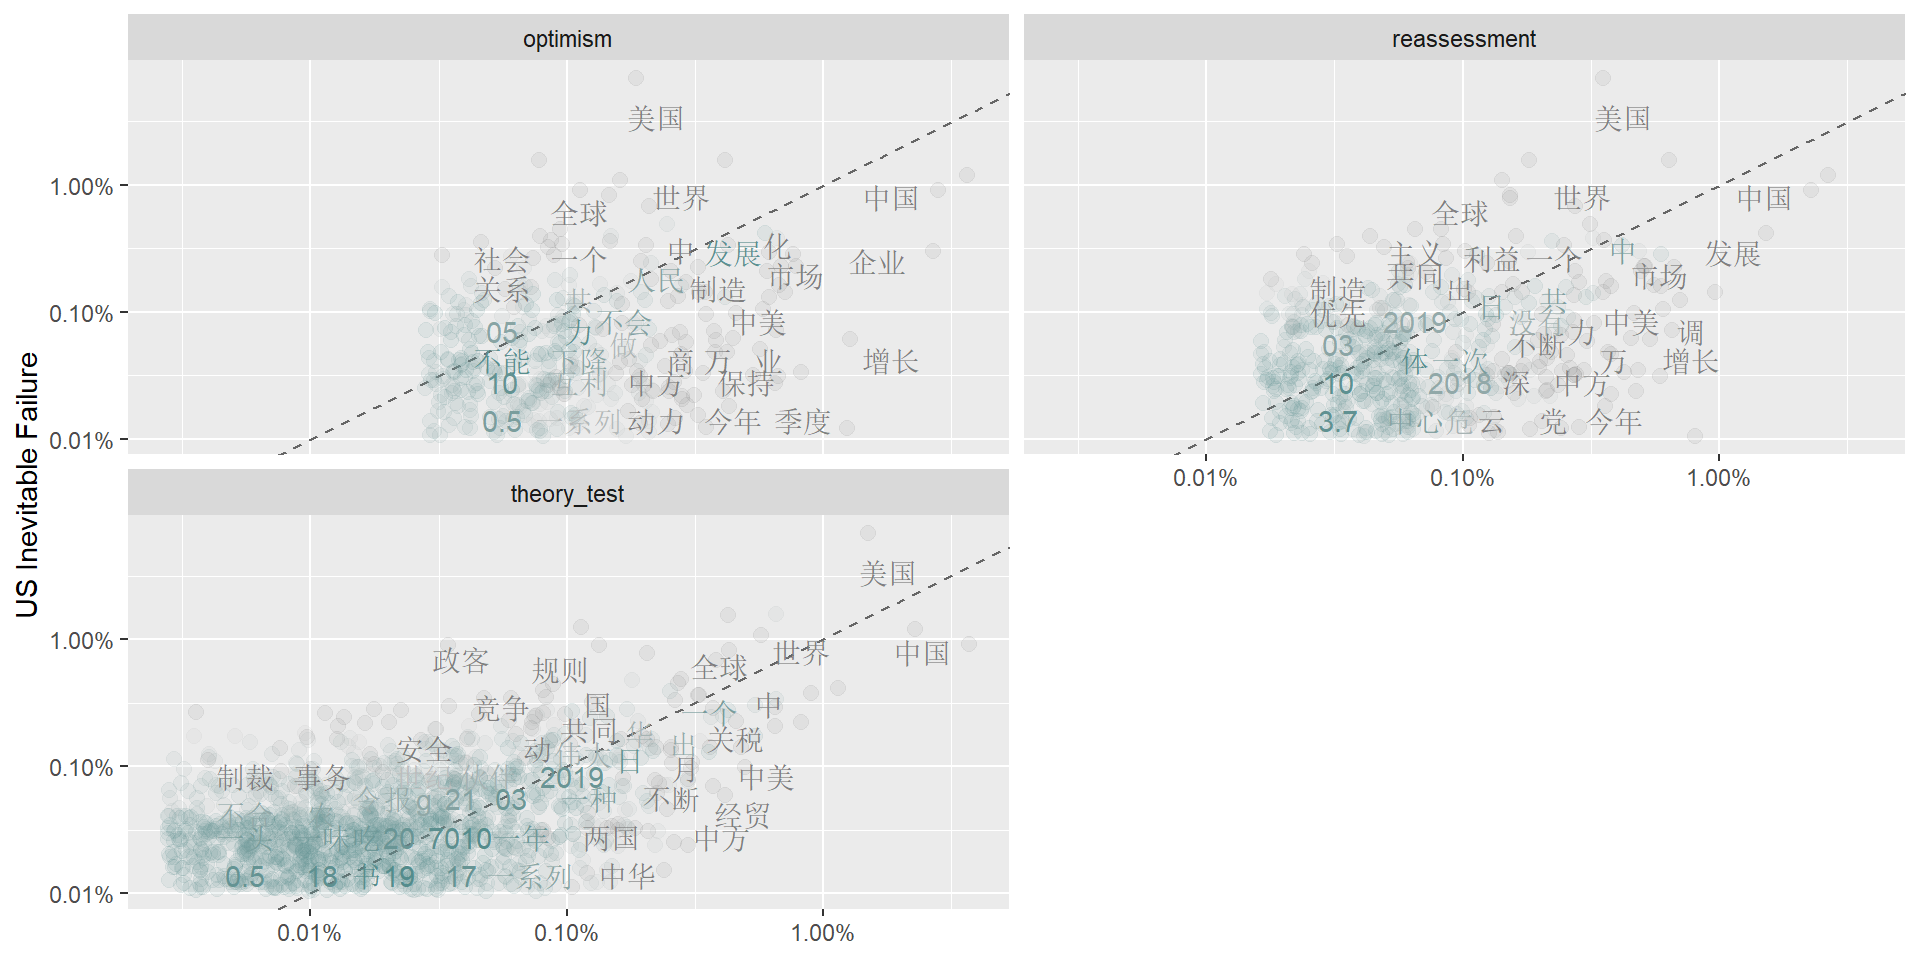
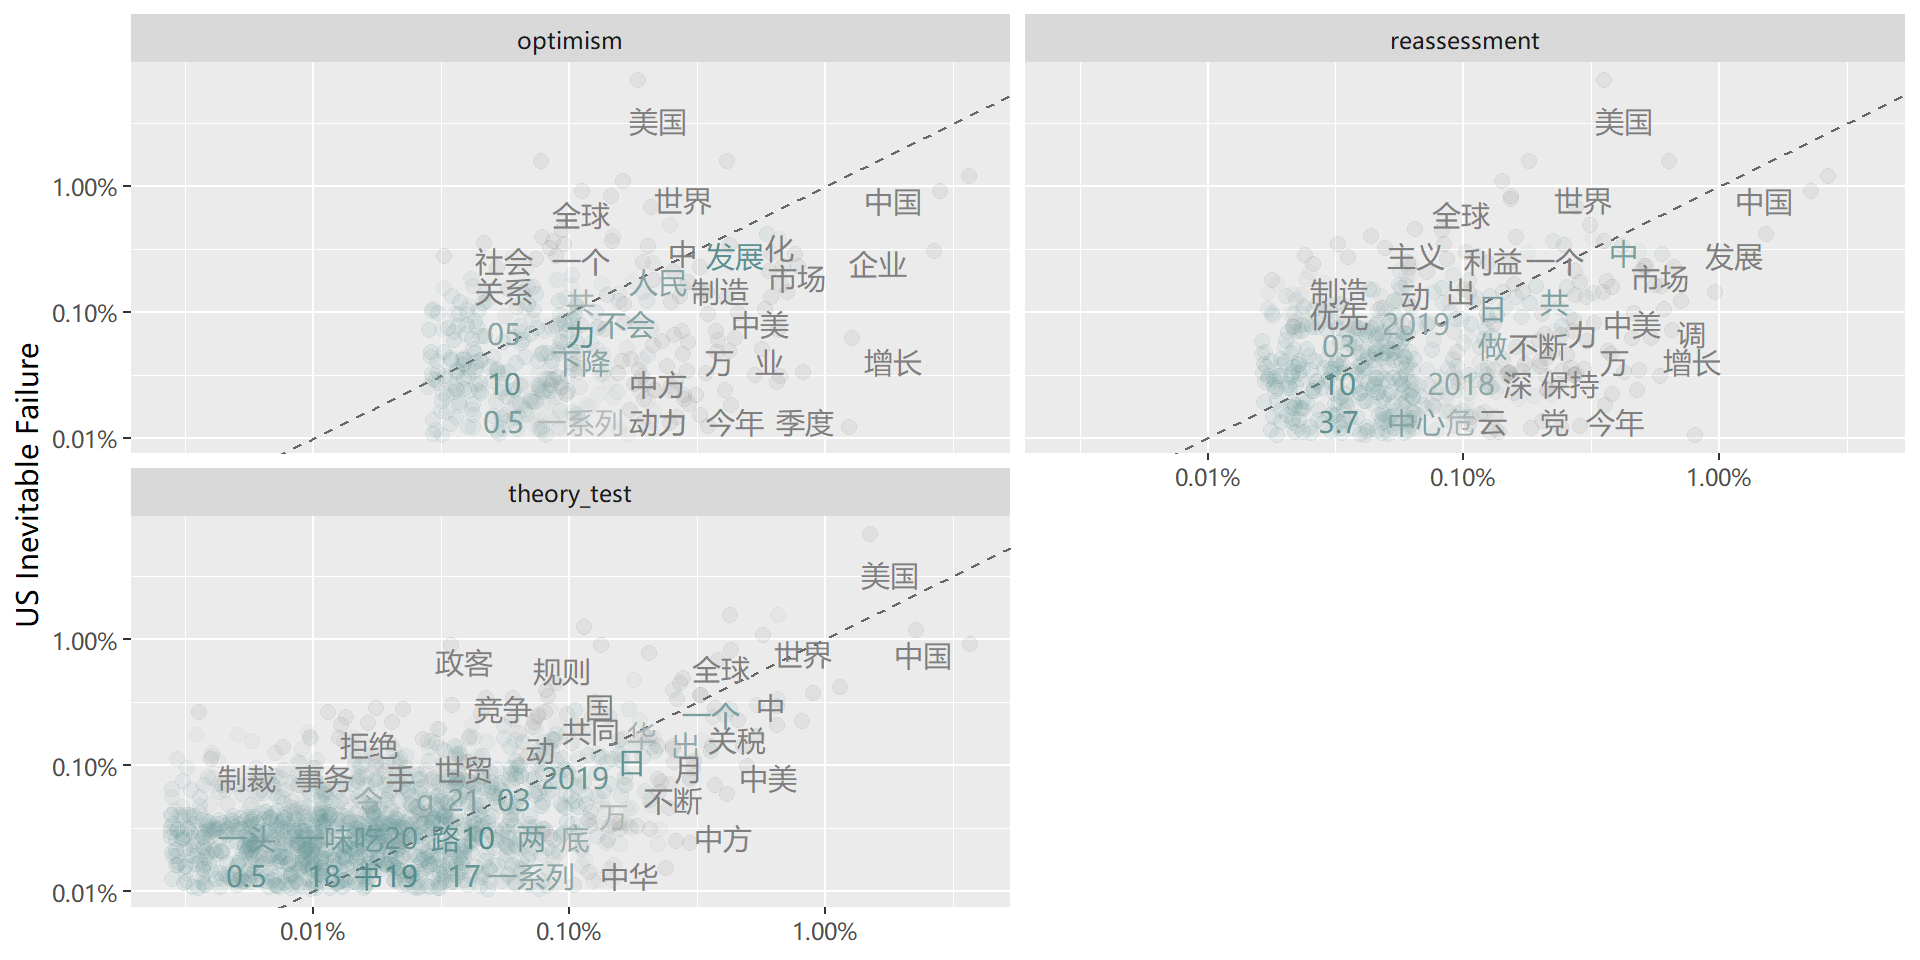
fix the font issue

diff --git a/slides/courses/camsTextAnalysis/01_theory.html b/slides/courses/camsTextAnalysis/01_theory.html
@@ -613,7 +613,7 @@ Yue Hu
 </figure>
 </div>
 <aside class="notes">
-<p>Fig. 5 Attention to issues follows expected geographic patterns. <strong>This figure demonstrates that senators’ expressed agendas are grouped geographically.</strong> The left-hand plot shows that senators from western states allocate substantial attention to public-land issues. Darker shades indicate that the average expected attention from the state’s delegation to public-land issues is larger. The center plot carries out a comparison of three different regional issues: public-land and western states (top estimate), hurricanes and gulf coast states (middle estimate), and border-security and states that share an international border (bottom estimate). The point in each plot represents the expected difference between the attention to senators in a geographic area allocate to an issue and the attention senators from other areas of the country dedicate to the same issue. The thick and thin lines are 80% and 95% HPD intervals for this difference. Each point is to the right of the zero, indicating that the issues receive more attention in the geographic areas we would expect. The right-hand plot shows that senators from states with a large number of farms per person also tend to allocate more attention to agriculture issues. The horizontal axis represents the number of farms per resident of the state (one measure of agriculture’s importance to a state), and the vertical axis indicates the proportion of press releases allocated to agricultural issues. The gray lines are lowess curves indicating the relationship between the number of farms per capita and the attention to agriculture, whereas the black line is the average relationship.</p>
+<p>Fig. 5 Attention to issues follows expected geographic patterns. <strong>This figure demonstrates that senators’ expressed agendas are grouped geographically.</strong> The left-hand plot shows that senators from western states allocate substantial attention to public-land issues. Darker shades indicate that the average expected attention from the state’s delegation to public-land issues is larger. The center plot carries out a comparison of three different regional issues: public-land and western states (top estimate), hurricanes and gulf coast states (middle estimate), and border-security and states that share an international border (bottom estimate). The point in each plot represents the expected difference between the attention senators in a geographic area allocate to an issue and the attention senators from other areas of the country dedicate to the same issue. The thick and thin lines are 80% and 95% HPD intervals for this difference. Each point is to the right of the zero, indicating that the issues receive more attention in the geographic areas we would expect. The right-hand plot shows that senators from states with a large number of farms per person also tend to allocate more attention to agriculture issues. The horizontal axis represents the number of farms per resident of the state (one measure of agriculture’s importance to a state), and the vertical axis indicates the proportion of press releases allocated to agricultural issues. The gray lines are lowess curves indicating the relationship between the number of farms per capita and the attention to agriculture, whereas the black line is the average relationship.</p>
 <style type="text/css">
         span.MJX_Assistive_MathML {
           position:absolute!important;
@@ -640,8 +640,8 @@ Yue Hu
 <aside class="notes">
 <p>An earmark is a provision inserted into a discretionary spending appropriations bill that directs funds to a specific recipient while bypassing the merit-based or competitive funds allocation process. These provisions are often associated with legislation specifying certain congressional spending priorities or in revenue bills that apply to a limited number of individuals or entities.</p>
 <p>The DeMint-McCain amendment was a significant proposal related to earmark reform. Senator Jim DeMint introduced a one-year earmark moratorium amendment, which was co-sponsored by both Republicans and Democrats. The amendment aimed to end the era of earmarks and was seen as a step towards increased transparency, accountability, and fiscal responsibility in Congress. Despite its support from some senators and advocacy groups, the amendment was defeated in a late-night Senate vote, with a result of 29-71.</p>
-<p>Fig. 6 Senators who dedicate more attention to appropriations were more likely to oppose Demint-McCain. This figure shows that <strong>senators who dedicate more attention to appropriations in their press releases are more likely to oppose the Demint-McCain amendment.</strong> The vertical axis plots the vote on the amendment, and along the horizontal axis is the average proportion of press releases dedicate to discussing appropriations secured for fire departments. To generate the light gray lines, I took 100 draws from each senator’s posterior expressed agenda and then regressed the earmark vote on the draw from the posterior. The gray lines represent the expected probability of supporting the DemintMcCain amendment, and the solid black line is the expected value of the relationship, averaged over the draws from the posterior distribution on the expressed agenda.</p>
-<p>The left-hand figure shows that senators who discuss fire department grants more often were more likely to oppose the DemintMcCain amendment, and the center plot shows that this relationship was even stronger for an aggregate appropriations category. The right-hand plot shows that the relationship remains even after conditioning upon estimated ideal points of senators, suggesting that consistency explains components of voting behavior beyond ideal point estimates.</p>
+<p>Fig. 6 Senators who dedicate more attention to appropriations were more likely to oppose DeMint-McCain. This figure shows that <strong>senators who dedicate more attention to appropriations in their press releases are more likely to oppose the DeMint-McCain amendment.</strong> The vertical axis plots the vote on the amendment, and along the horizontal axis is the average proportion of press releases dedicated to discussing appropriations secured for fire departments. To generate the light gray lines, I took 100 draws from each senator’s posterior expressed agenda and then regressed the earmark vote on the draw from the posterior. The gray lines represent the expected probability of supporting the DeMint-McCain amendment, and the solid black line is the expected value of the relationship, averaged over the draws from the posterior distribution on the expressed agenda.</p>
+<p>The left-hand figure shows that senators who discuss fire department grants more often were more likely to oppose the DeMint-McCain amendment, and the center plot shows that this relationship was even stronger for an aggregate appropriations category. The right-hand plot shows that the relationship remains even after conditioning upon estimated ideal points of senators, suggesting that consistency explains components of voting behavior beyond ideal point estimates.</p>
 <style type="text/css">
         span.MJX_Assistive_MathML {
           position:absolute!important;
@@ -1062,7 +1062,7 @@ Yue Hu
 </section>
 <section id="customized-scraping" class="slide level2">
 <h2>Customized Scraping</h2>
-<p><code>SelectorGadget</code> (Chrome add-in)</p>
+<p><code>SelectorGadget</code> (Chrome extension)</p>
 <div class="quarto-figure quarto-figure-center">
 <figure>
 <p><a href="https://drhuyue.site:10002/sammo3182/figure/theory_zhongsheng_page.png" class="lightbox" data-gallery="quarto-lightbox-gallery-26"><img data-src="https://drhuyue.site:10002/sammo3182/figure/theory_zhongsheng_page.png" class="quarto-figure quarto-figure-center" height="500"></a></p>
@@ -1296,8 +1296,7 @@ Yue Hu
 <ul>
 <li>Segmentation</li>
 <li>Tokenization</li>
-<li>Stopwords/function words removing<br>
-</li>
+<li>Stopwords/function words removal</li>
 <li>Other project-oriented wrangling</li>
 </ul>
 </div>
@@ -1361,7 +1360,7 @@ Yue Hu
 <li>Removing: capitalization, punctuation, non-alphanumeric characters (@#$%……&amp;*), stop words</li>
 </ul>
 <div class="fragment">
-<p>Examples of Stopwords*</p>
+<p>Examples of Stopwords</p>
 <div class="cell">
 <div class="cell-output cell-output-stdout">
 <pre><code> [1] "to"     "can"    "could"  "dare"   "do"     "did"    "does"   "may"   
@@ -1416,7 +1415,7 @@ Yue Hu
 <div class="callout-content">
 <ul>
 <li>Lemmatization: (went, leaves, geese, unhappy) → (go, leaf, goose, unhappy)</li>
-<li>Stemming: (went, leaves, geese, unhappy) → (went, leav, geese , unhappi)</li>
+<li>Stemming: (went, leaves, geese, unhappy) → (went, leav, geese, unhappi)</li>
 </ul>
 </div>
 </div>
@@ -1603,7 +1602,7 @@ Yue Hu
 <span id="cb12-19"><a href=""></a>    <span class="fu">aes</span>(<span class="at">label =</span> word),</span>
 <span id="cb12-20"><a href=""></a>    <span class="at">check_overlap =</span> <span class="cn">TRUE</span>,</span>
 <span id="cb12-21"><a href=""></a>    <span class="at">vjust =</span> <span class="fl">1.5</span>,</span>
-<span id="cb12-22"><a href=""></a>    <span class="at">family =</span> <span class="st">"WenQuanYi Micro Hei"</span></span>
+<span id="cb12-22"><a href=""></a>    <span class="at">family =</span> cjk_font</span>
 <span id="cb12-23"><a href=""></a>  ) <span class="sc">+</span></span>
 <span id="cb12-24"><a href=""></a>  <span class="fu">scale_x_log10</span>(<span class="at">labels =</span> <span class="fu">percent_format</span>()) <span class="sc">+</span></span>
 <span id="cb12-25"><a href=""></a>  <span class="fu">scale_y_log10</span>(<span class="at">labels =</span> <span class="fu">percent_format</span>()) <span class="sc">+</span></span>
@@ -1614,8 +1613,7 @@ Yue Hu
 <span id="cb12-30"><a href=""></a>  ) <span class="sc">+</span></span>
 <span id="cb12-31"><a href=""></a>  <span class="fu">facet_wrap</span>(<span class="sc">~</span>phase, <span class="at">ncol =</span> <span class="dv">2</span>) <span class="sc">+</span></span>
 <span id="cb12-32"><a href=""></a>  <span class="fu">theme</span>(<span class="at">legend.position =</span> <span class="st">"none"</span>) <span class="sc">+</span></span>
-<span id="cb12-33"><a href=""></a>  <span class="fu">labs</span>(<span class="at">y =</span> <span class="st">"US Inevitable Failure"</span>, <span class="at">x =</span> <span class="cn">NULL</span>) <span class="sc">+</span></span>
-<span id="cb12-34"><a href=""></a>  <span class="fu">theme</span>(<span class="at">text =</span> <span class="fu">element_text</span>(<span class="at">family =</span> <span class="st">"WenQuanYi Micro Hei"</span>))</span></code></pre></div><button title="Copy to Clipboard" class="code-copy-button"><i class="bi"></i></button></div>
+<span id="cb12-33"><a href=""></a>  <span class="fu">labs</span>(<span class="at">y =</span> <span class="st">"US Inevitable Failure"</span>, <span class="at">x =</span> <span class="cn">NULL</span>)</span></code></pre></div><button title="Copy to Clipboard" class="code-copy-button"><i class="bi"></i></button></div>
 </details>
 <div class="cell-output-display">
 <div>
@@ -1771,7 +1769,7 @@ $rhs
 <ul>
 <li>Unigram: 清华 大学 政治 系</li>
 <li>Bigram: 清华大学 政治系/清华 大学政治 系</li>
-<li>Trigram：清华大学政治 系/清华 大学政治系</li>
+<li>Trigram: 清华大学政治 系/清华 大学政治系</li>
 </ul></li>
 </ul>
 </section>
@@ -1791,7 +1789,7 @@ $rhs
 <li>Pros:
 <ol type="1">
 <li>Identify important words</li>
-<li>Reduces the weight of common words</li>
+<li>Reduce the weight of common words</li>
 <li>Improve the performance of machine learning models</li>
 </ol></li>
 </ul>
@@ -1864,7 +1862,7 @@ $rhs
 <p>As a leading firm in the [MASK] sector, we hire highly skilled software engineers.<br>
 As a leading firm in the [MASK] sector, we hire highly skilled petroleum engineers.</p>
 </blockquote>
-<p>What should be filled into the “[MASK]”? How do you figure out?</p>
+<p>What should be filled into the “[MASK]”? How do you figure it out?</p>
 </div>
 <div class="fragment">
 <p>As a leading firm in the [<em>information technology</em>] sector, we hire highly skilled <span class="red">software</span> engineers.</p>